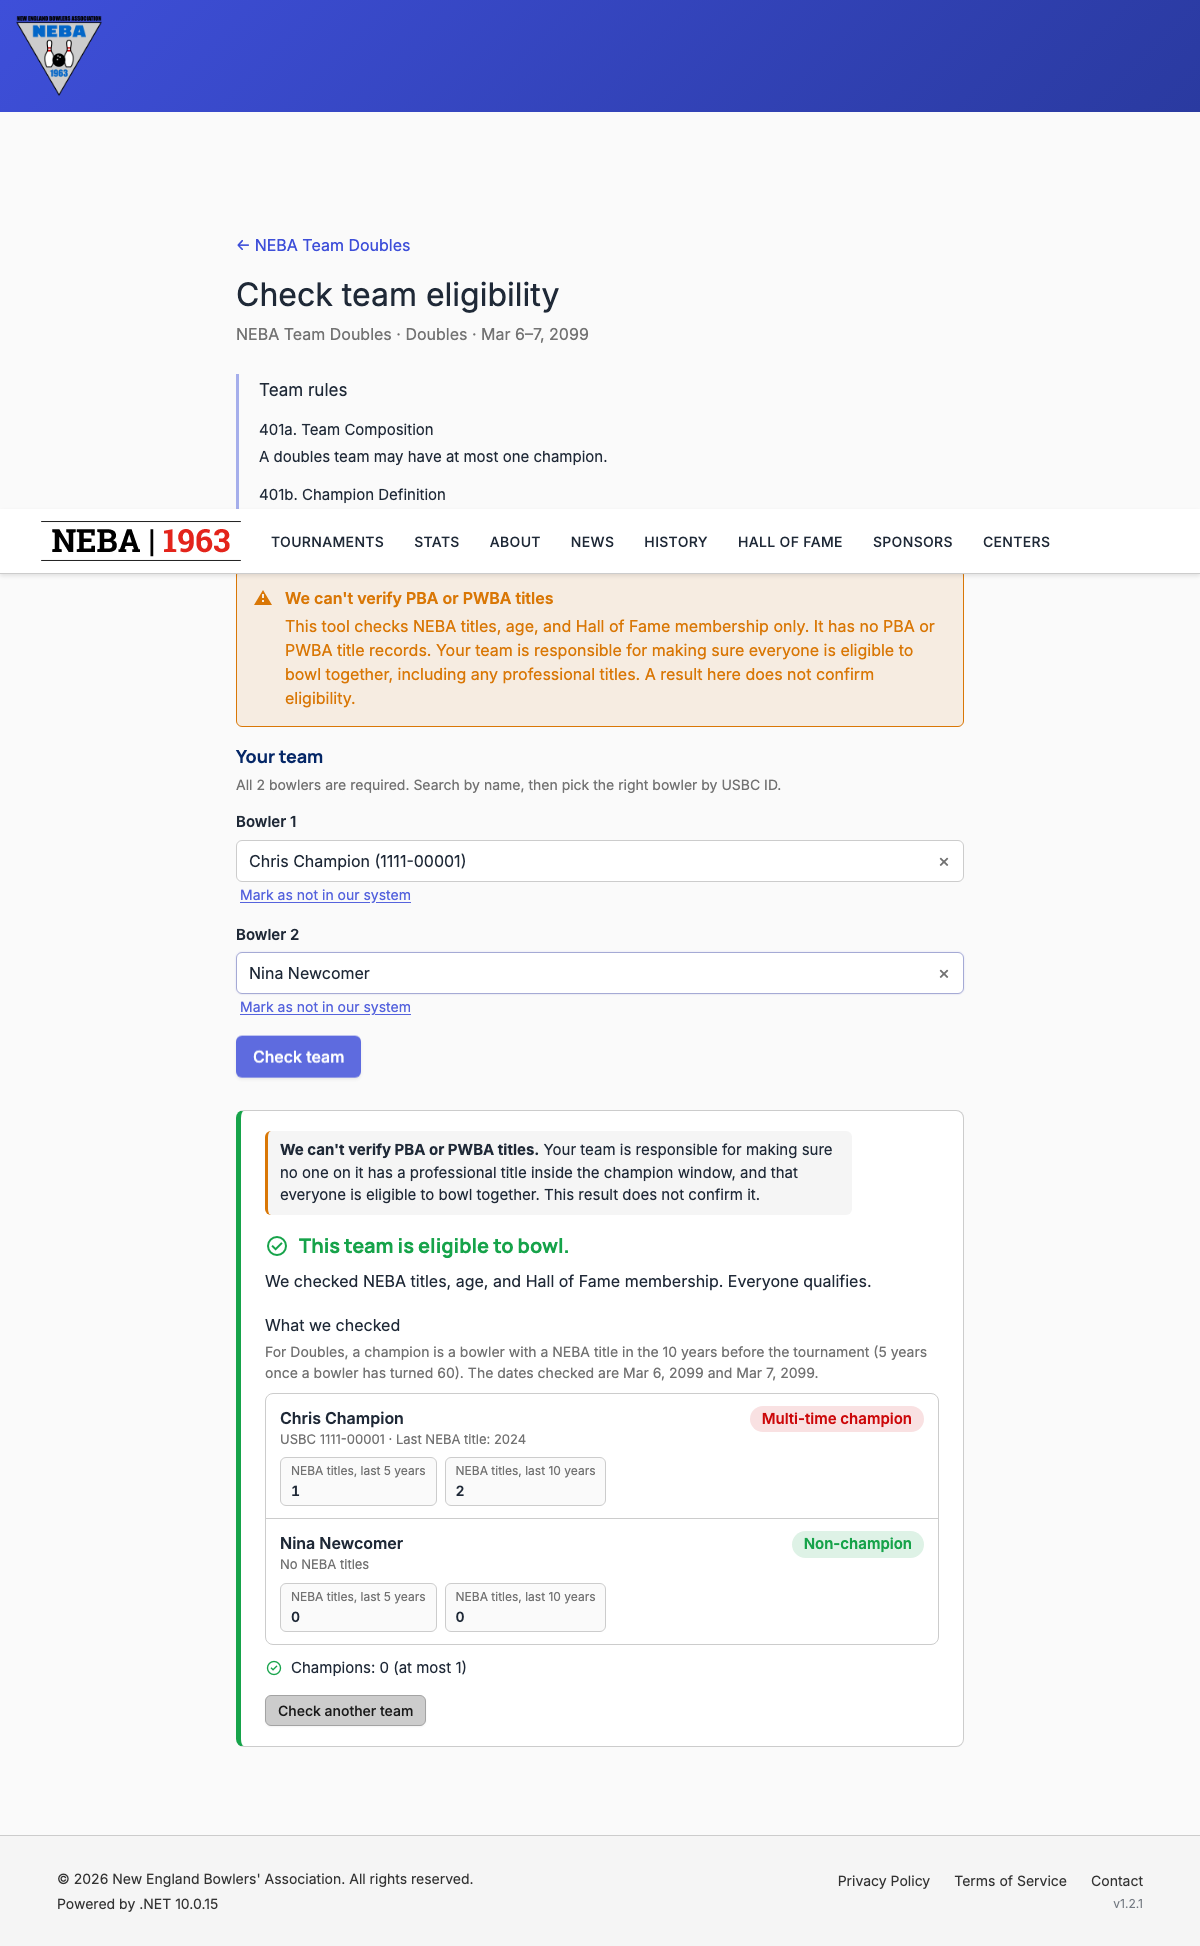
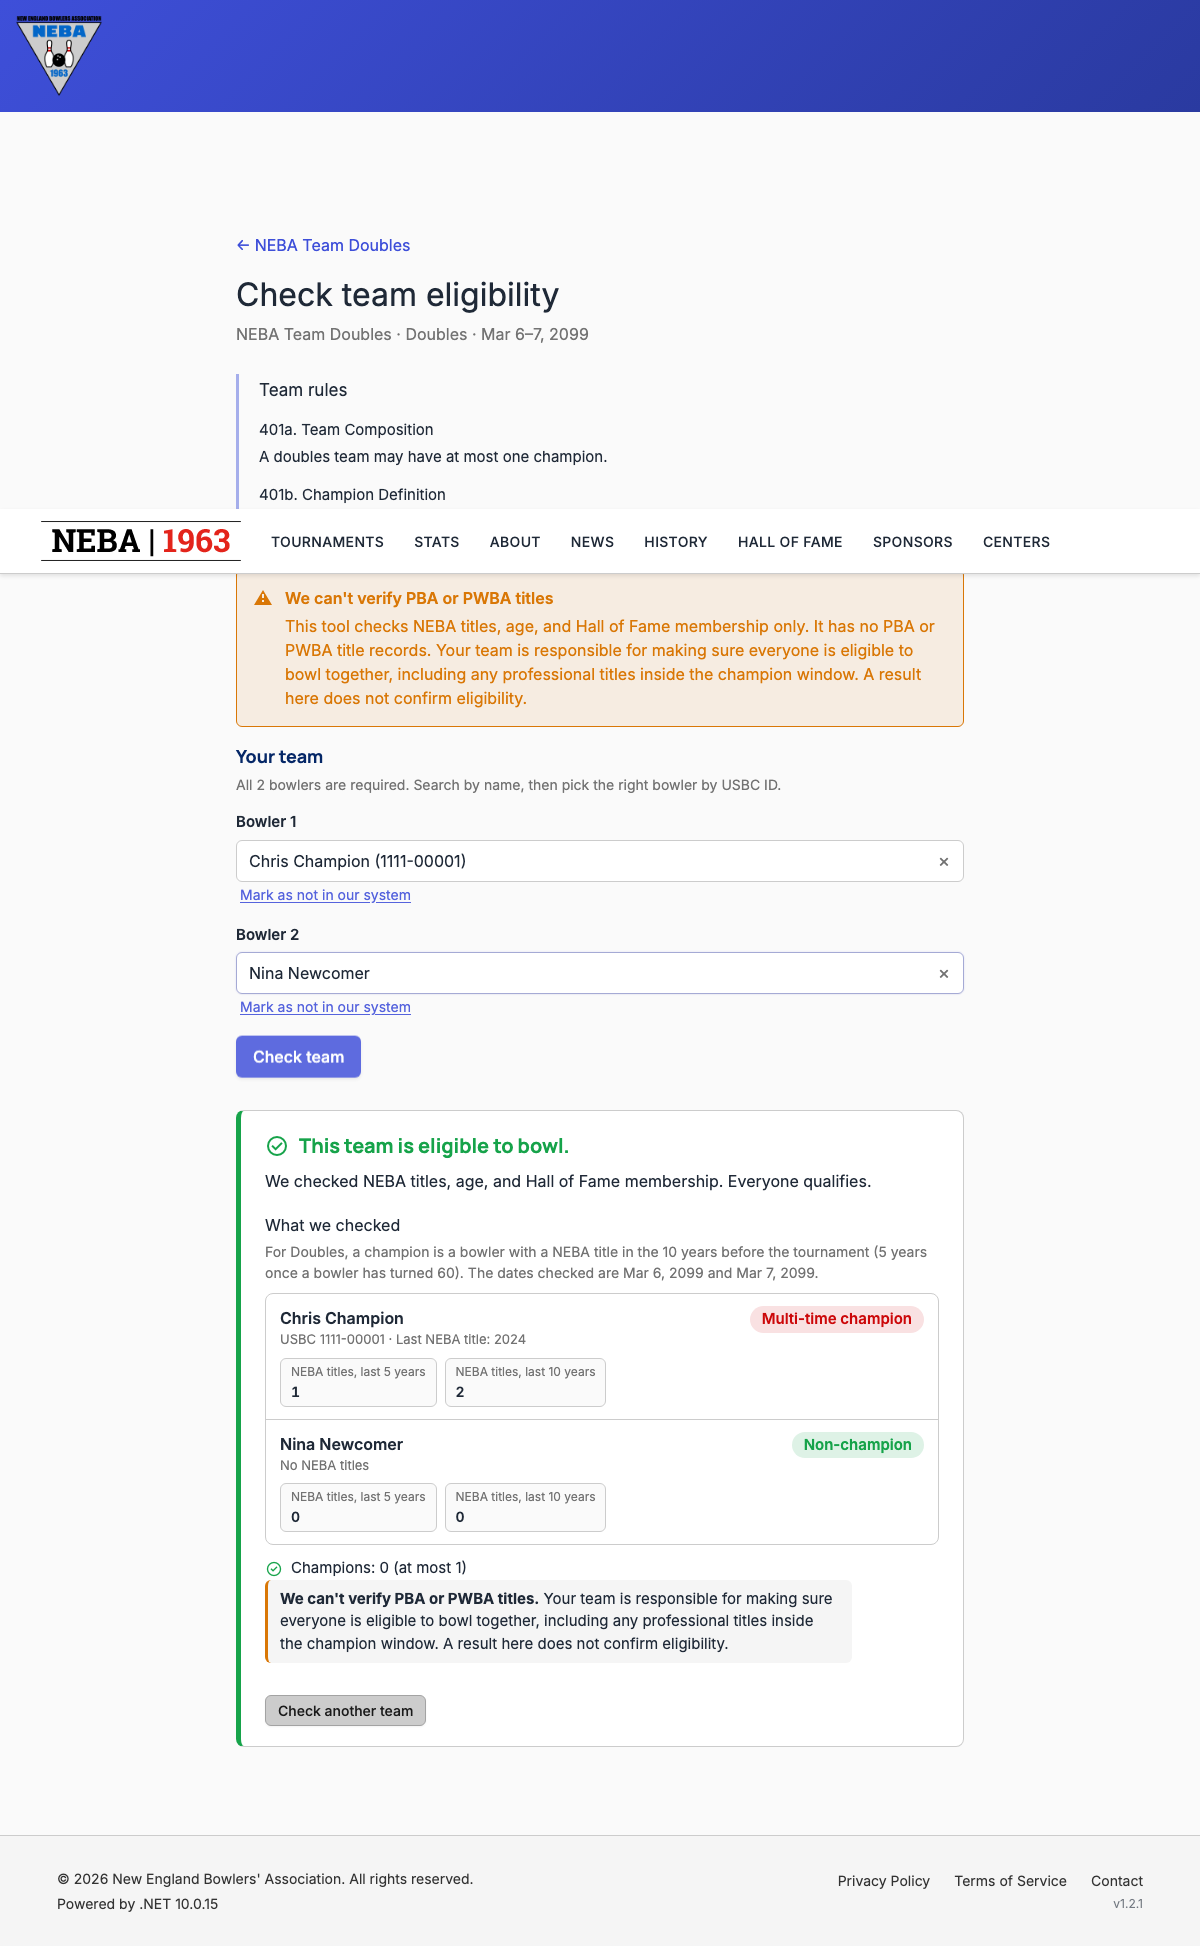
Address code review: share notice body, move note below facts
Share the PBA/PWBA responsibility text between the alert and the result
note, put the note back below the facts so the verdict leads, keep the
defending champions heading singular for an empty list, and fix a stale
XML doc. Regenerate help screenshots.

diff --git a/src/Neba.Website.Server/Tournaments/TeamEligibility/ProfessionalTitlesNotice.cs b/src/Neba.Website.Server/Tournaments/TeamEligibility/ProfessionalTitlesNotice.cs
@@ -5,4 +5,15 @@ internal static class ProfessionalTitlesNotice
 {
     /// <summary>The lead sentence shown before and after a check.</summary>
     public const string Headline = "We can't verify PBA or PWBA titles";
+
+    /// <summary>The team's duty, shown before and after a check.</summary>
+    public const string Responsibility =
+        "Your team is responsible for making sure everyone is eligible to bowl together, "
+        + "including any professional titles inside the champion window. "
+        + "A result here does not confirm eligibility.";
+
+    /// <summary>The full text of the pre-check alert.</summary>
+    public const string AlertMessage =
+        "This tool checks NEBA titles, age, and Hall of Fame membership only. "
+        + "It has no PBA or PWBA title records. " + Responsibility;
 }

diff --git a/tests/Neba.Website.Tests/Tournaments/DefendingChampionsTests.cs b/tests/Neba.Website.Tests/Tournaments/DefendingChampionsTests.cs
@@ -127,6 +127,7 @@ public sealed class DefendingChampionsTests : IDisposable
     [Theory(DisplayName = "Heading should be plural for a team of more than one bowler or for two teams")]
     [InlineData(2, 1, "Defending champions", TestDisplayName = "A two-bowler team")]
     [InlineData(1, 1, "Defending champion", TestDisplayName = "One bowler, one team")]
+    [InlineData(0, 1, "Defending champion", TestDisplayName = "A team with no champions listed")]
     [InlineData(1, 2, "Defending champions", TestDisplayName = "One bowler, two teams")]
     public void Render_ShouldPluralizeHeading(int bowlers, int teams, string expected)
     {

diff --git a/src/Neba.Website.Server/Tournaments/TeamEligibility/ITeamEligibilityService.cs b/src/Neba.Website.Server/Tournaments/TeamEligibility/ITeamEligibilityService.cs
@@ -5,7 +5,7 @@ namespace Neba.Website.Server.Tournaments.TeamEligibility;
 internal interface ITeamEligibilityService
 {
     /// <summary>
-    /// Checks whether the team may bowl together. <paramref name="unknownBowlerCount"/> counts members not found
+    /// Checks whether the team is eligible to bowl. <paramref name="unknownBowlerCount"/> counts members not found
     /// in the system.
     /// </summary>
     Task<ErrorOr<TeamEligibilityResultViewModel>> CheckAsync(
